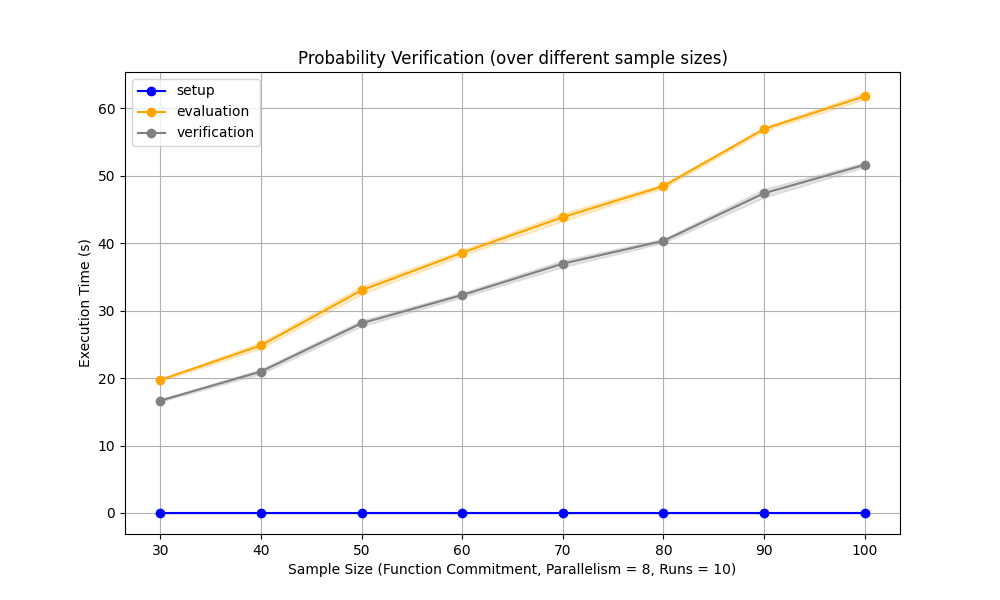
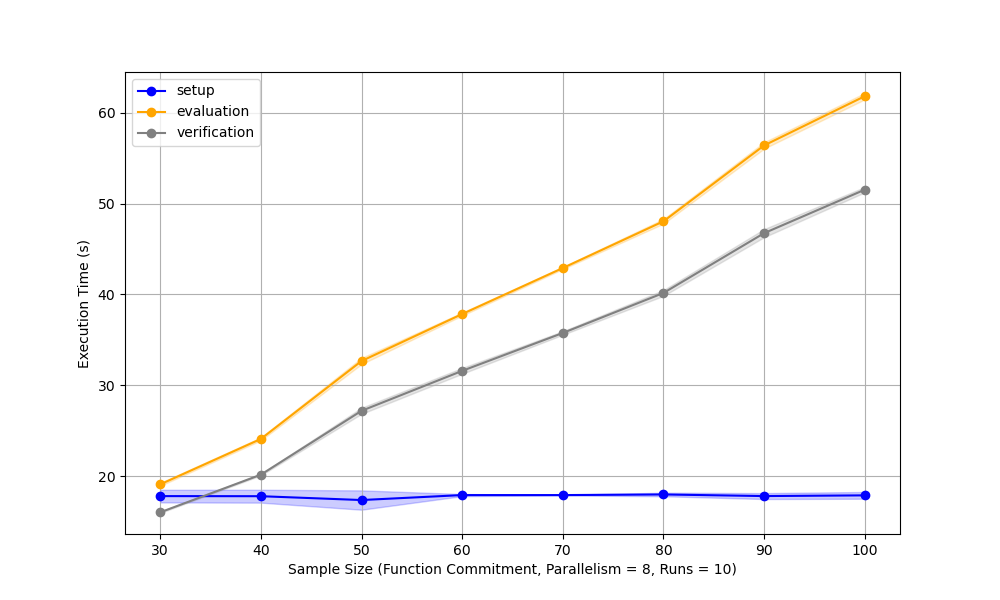
update result

diff --git a/results/plot.py b/results/plot.py
@@ -30,7 +30,8 @@ def plot_data(df, y_columns, title, xlabel, ylabel, colors):
         )
     plt.xlabel(xlabel)
     plt.ylabel(ylabel)
-    plt.title(title)
+    if title:
+        plt.title(title)
     plt.legend()
     plt.grid(True)
 
@@ -40,7 +41,8 @@ print(df1)
 plot_data(
     df1,
     ["setup", "evaluation", "verification"],
-    "Probability Verification (over different polynomial degrees)",
+    # "Probability Verification (over different polynomial degrees)",
+    None,
     "Polynomial Degree (Sample Size = 30, Parallelism = 8, Runs = 10)",
     "Execution Time (s)",
     {"setup": "blue", "evaluation": "orange", "verification": "gray"},
@@ -48,13 +50,13 @@ plot_data(
 plt.savefig("poly_deg.png")
 
 df2 = pd.read_csv("poly_sample.csv")
-df2["setup"] = 0  # Adding 'setup' as 0 for the second dataset
 df2 = df2.groupby("Sample Size").agg(["mean", "std"])
 print(df2)
 plot_data(
     df2,
     ["setup", "evaluation", "verification"],
-    "Probability Verification (over different sample sizes)",
+    # "Probability Verification (over different sample sizes)",
+    None,
     "Sample Size (Degree = 150, Parallelism = 8, Runs = 10)",
     "Execution Time (s)",
     {"setup": "blue", "evaluation": "orange", "verification": "gray"},
@@ -62,13 +64,13 @@ plot_data(
 plt.savefig("poly_sample.png")
 
 df3 = pd.read_csv("fc_samples.csv")
-df3["setup"] = 0  # Adding 'setup' as 0 for the second dataset
 df3 = df3.groupby("Sample Size").agg(["mean", "std"])
 print(df3)
 plot_data(
     df3,
     ["setup", "evaluation", "verification"],
-    "Probability Verification (over different sample sizes)",
+    # "Probability Verification (over different sample sizes)",
+    None,
     "Sample Size (Function Commitment, Parallelism = 8, Runs = 10)",
     "Execution Time (s)",
     {"setup": "blue", "evaluation": "orange", "verification": "gray"},

diff --git a/ProbabilityVerification.py b/ProbabilityVerification.py
@@ -284,7 +284,7 @@ def plotDifferentSampleSize(output, n_samples):
     PRB = FakePRB()
     server = ProbabilityVerificationServer()
     rows = [["Sample Size", "setup", "evaluation", "verification"]]
-    
+
     for sampleSize in range(30, 101, 10):
         for _ in range(n_samples):
             mappingFunction.setSampleSize(sampleSize)
